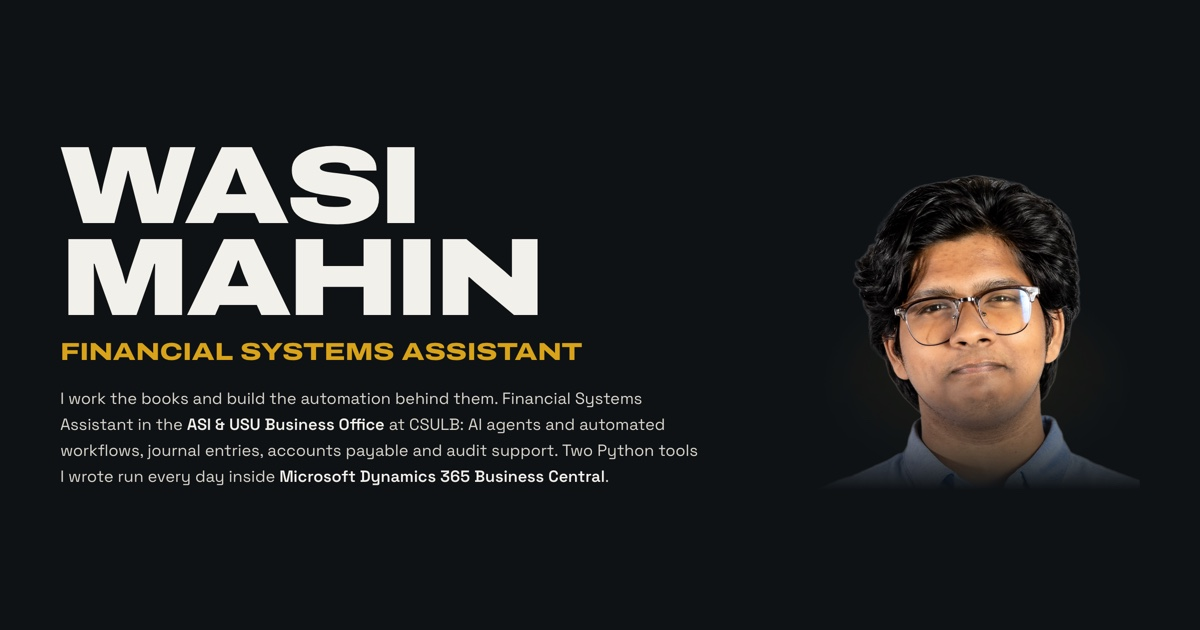
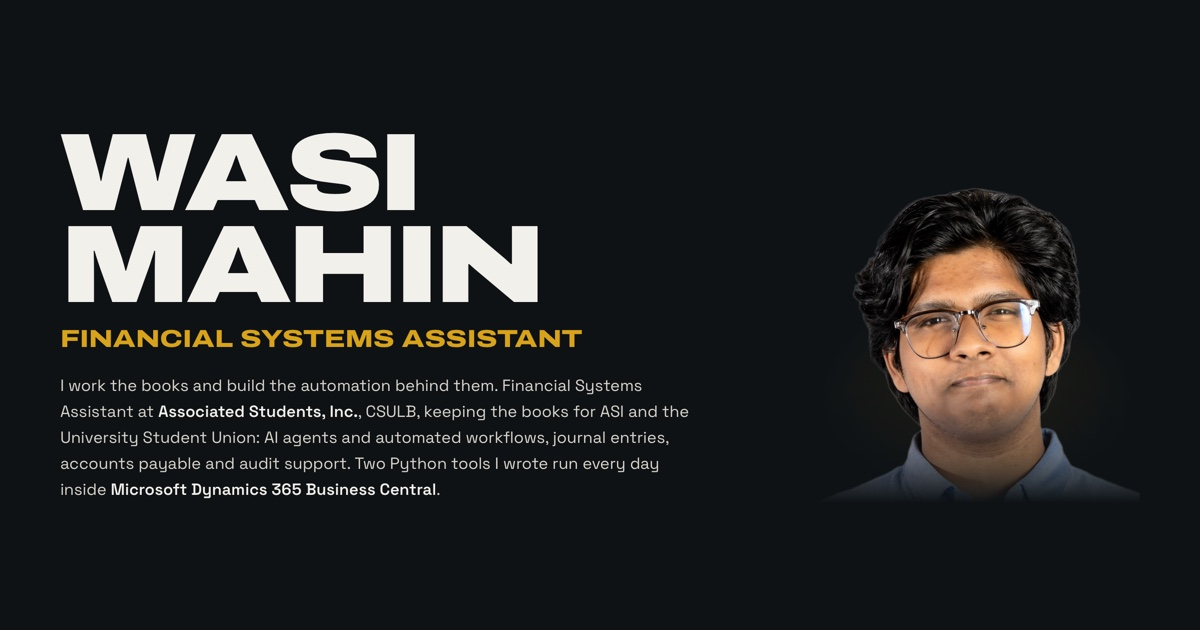
XYZ bullets, ASI as employer, GPA removed, skills regrouped
Experience bullets rewritten in Google's XYZ form; the tools and Copilot
pipelines move to the current role. Employer is Associated Students, Inc.
(Wasi keeps the books for ASI and USU). GPA evidence row and education GPA
removed. Skills regrouped for the Financial Systems Assistant role. Hero lede,
meta, Twitter and JSON-LD descriptions follow; OG image re-rendered and its URL
re-versioned; resume PDF rebuilt.

Changed region(s): [[0.0308, 0.2111, 0.4933, 0.573], [0.0308, 0.6032, 0.5858, 0.7841], [0.7092, 0.2714, 0.925, 0.7841]]

diff --git a/index.html b/index.html
@@ -4,7 +4,7 @@
 <meta charset="UTF-8"/>
 <meta name="viewport" content="width=device-width, initial-scale=1.0"/>
 <title>Wasi Mahin — Financial Systems Assistant | Finance operations &amp; production automation</title>
-<meta name="description" content="Financial Systems Assistant in the ASI &amp; USU Business Office at CSULB. Builds the office&#39;s AI agents and automated workflows, and wrote the two Python tools running daily inside Dynamics 365. MIS &amp; Accountancy, GPA 3.78."/>
+<meta name="description" content="Financial Systems Assistant at Associated Students, Inc., CSULB. Keeps the books for ASI and the University Student Union, builds the office&#39;s AI agents and automated workflows, and wrote the two Python tools running daily inside Dynamics 365."/>
 <meta name="author" content="Wasi Mahin"/>
 <meta name="robots" content="index, follow, max-image-preview:large, max-snippet:-1"/>
 <link rel="canonical" href="https://wasimahin.com/"/>
@@ -17,14 +17,14 @@
 <meta property="og:site_name" content="Wasi Mahin"/>
 <meta property="og:locale" content="en_US"/>
 <meta property="og:url" content="https://wasimahin.com/"/>
-<meta property="og:image" content="https://wasimahin.com/og-image.jpg?v=20261001"/>
+<meta property="og:image" content="https://wasimahin.com/og-image.jpg?v=20261001b"/>
 <meta property="og:image:width" content="1200"/>
 <meta property="og:image:height" content="630"/>
 <meta property="og:image:alt" content="Wasi Mahin — Financial Systems Assistant, portfolio preview"/>
 <meta name="twitter:card" content="summary_large_image"/>
 <meta name="twitter:title" content="Wasi Mahin — Financial Systems Assistant"/>
-<meta name="twitter:description" content="Financial Systems Assistant, ASI &amp; USU Business Office at CSULB. Builds AI agents and automated accounting workflows; wrote the two Python tools running daily inside Dynamics 365."/>
-<meta name="twitter:image" content="https://wasimahin.com/og-image.jpg?v=20261001"/>
+<meta name="twitter:description" content="Financial Systems Assistant at Associated Students, Inc., CSULB. Builds AI agents and automated accounting workflows; wrote the two Python tools running daily inside Dynamics 365."/>
+<meta name="twitter:image" content="https://wasimahin.com/og-image.jpg?v=20261001b"/>
 <meta name="twitter:image:alt" content="Wasi Mahin — Financial Systems Assistant, portfolio preview"/>
 
 <!-- Favicons -->
@@ -47,9 +47,9 @@
       "name": "Wasi Mahin",
       "url": "https://wasimahin.com/",
       "email": "mailto:wasimahin@gmail.com",
-      "image": "https://wasimahin.com/og-image.jpg?v=20261001",
+      "image": "https://wasimahin.com/og-image.jpg?v=20261001b",
       "jobTitle": "Financial Systems Assistant",
-      "description": "Financial Systems Assistant in the Associated Students, Inc. & University Student Union Business Office at CSULB: builds and maintains the office's AI agents and automated accounting workflows, and supports journal entries, accounts payable, reconciliations and audits. Engineered the two Python automation tools running daily inside Microsoft Dynamics 365 Business Central. MIS & Accountancy student at CSULB, GPA 3.78.",
+      "description": "Financial Systems Assistant at Associated Students, Inc., CSULB: keeps the books for ASI and the University Student Union, builds and maintains the office's AI agents and automated accounting workflows, and supports journal entries, accounts payable, reconciliations and audits. Engineered the two Python automation tools running daily inside Microsoft Dynamics 365 Business Central. MIS & Accountancy student at CSULB.",
       "alumniOf": { "@type": "CollegeOrUniversity", "name": "California State University, Long Beach", "sameAs": "https://www.csulb.edu" },
       "worksFor": { "@type": "Organization", "name": "Associated Students, Inc., CSULB" },
       "address": { "@type": "PostalAddress", "addressLocality": "Long Beach", "addressRegion": "CA", "addressCountry": "US" },
@@ -411,9 +411,10 @@ a:hover{text-decoration-color:var(--amber);}
       <h1><span class="flap">Wasi Mahin</span>
         <span class="svc flap">Financial Systems Assistant</span></h1>
       <p class="dest-lede">I work the books and build the automation behind them. Financial
-        Systems Assistant in the <b>ASI &amp; USU Business Office</b> at CSULB: AI agents and
-        automated workflows, journal entries, accounts payable and audit support. Two Python tools
-        I wrote run every day inside <b>Microsoft Dynamics 365 Business Central</b>.</p>
+        Systems Assistant at <b>Associated Students, Inc.</b>, CSULB, keeping the books for ASI and
+        the University Student Union: AI agents and automated workflows, journal entries, accounts
+        payable and audit support. Two Python tools I wrote run every day inside <b>Microsoft
+        Dynamics 365 Business Central</b>.</p>
     </div>
     <div class="gate" role="img" aria-label="Portrait of Wasi Mahin"></div>
   </div>
@@ -433,9 +434,6 @@ a:hover{text-decoration-color:var(--amber);}
     <div class="ev-row"><div class="ev-n">70–80%</div>
       <p class="ev-t">faster extraction, validation and reporting pipelines, built with
         <b>Microsoft Copilot</b> and prompt engineering.</p></div>
-    <div class="ev-row"><div class="ev-n">3.78</div>
-      <p class="ev-t">GPA at CSULB in <b>MIS &amp; Accountancy</b>. President's List in five
-        semesters since Fall 2023.</p></div>
   </div>
 </section>
 
@@ -449,14 +447,16 @@ a:hover{text-decoration-color:var(--amber);}
     <div class="row cols-4">
       <div class="t-time">Sep 2026 —</div>
       <div class="t-main">Financial Systems Assistant
-        <span class="t-sub">Associated Students, Inc. &amp; University Student Union · CSULB</span></div>
+        <span class="t-sub">Associated Students, Inc. · CSULB</span></div>
       <div class="t-detail"><ul>
-        <li>Build and maintain the Business Office's <b>AI agents and automated workflows</b>,
-          including the two Python tools below.</li>
-        <li>Review AI tools for risk: <b>access controls, data protection</b> and internal-control
-          safeguards for financial data.</li>
-        <li>Prepare <b>journal entries</b> and support accounts payable, reconciliations, audits,
-          year-end close and budget development.</li>
+        <li>Cut invoice entry <b>~96%</b> and manual journal entry <b>up to 95%</b> by building and
+          maintaining the two Python tools below.</li>
+        <li>Cut reporting-pipeline time <b>70–80%</b> with AI-assisted extraction and validation
+          workflows built on Microsoft Copilot.</li>
+        <li>Protect confidential financial data by reviewing AI tools for risk and putting
+          <b>access controls and internal-control safeguards</b> in place.</li>
+        <li>Keep the ASI and USU books <b>audit-ready</b>: journal entries, accounts payable,
+          reconciliations and year-end close.</li>
       </ul></div>
       <div><span class="flag live">Current</span></div>
     </div>
@@ -464,15 +464,14 @@ a:hover{text-decoration-color:var(--amber);}
     <div class="row cols-4">
       <div class="t-time">Feb – Sep 2026</div>
       <div class="t-main">Lead Business Office Representative
-        <span class="t-sub">Associated Students, Inc. &amp; University Student Union · CSULB</span></div>
+        <span class="t-sub">Associated Students, Inc. · CSULB</span></div>
       <div class="t-detail"><ul>
-        <li>Built the <b>two production Python tools</b> described below: invoice entry ~96% faster,
-          manual journal entry cut up to 95%.</li>
-        <li>Owned the <b>full accounts payable cycle</b> for ASI and USU — 50–100+ vendor invoices a
-          week, up to 200 at peak — and ran <b>monthly internal audits</b> at 100% accuracy across
-          500+ accounts.</li>
-        <li>Supported the <b>2025–26 external year-end audit</b> with reconciliations and supporting
-          schedules, and ran <b>SQL-driven budget analysis</b> for annual budgets.</li>
+        <li>Processed <b>50–100+ vendor invoices a week</b> for 500+ organisations by owning the full
+          accounts payable cycle for ASI and USU.</li>
+        <li>Kept <b>100% data accuracy</b> across 500+ accounts through monthly internal audits and
+          2025–26 year-end audit preparation.</li>
+        <li>Raised office efficiency <b>50%</b> by redesigning workflows and training three new
+          hires.</li>
       </ul></div>
       <div><span class="flag done">Completed</span></div>
     </div>
@@ -482,10 +481,10 @@ a:hover{text-decoration-color:var(--amber);}
       <div class="t-main">Vice President of Finance
         <span class="t-sub">Association for Information Systems · CSULB</span></div>
       <div class="t-detail"><ul>
-        <li>Own the full financial lifecycle of a <b>100+ member organisation</b>: a $5,000+
-          operating budget plus external grant funding.</li>
-        <li>Analyse financial data to optimise fund distribution, and improve tracking,
-          reporting and allocation.</li>
+        <li>Fund weekly workshops and events for a <b>100+ member organisation</b> by managing a
+          $5,000+ operating budget plus external grant funding.</li>
+        <li>Improve allocation and reporting transparency by analysing spending data against the
+          board's growth goals.</li>
       </ul></div>
       <div><span class="flag live">Current</span></div>
     </div>
@@ -495,10 +494,10 @@ a:hover{text-decoration-color:var(--amber);}
       <div class="t-main">Business Analyst Intern — Project Microsoft
         <span class="t-sub">Association for Information Systems · CSULB</span></div>
       <div class="t-detail"><ul>
-        <li>Built interactive <b>Power BI dashboards</b> with DAX and custom data models,
-          turning raw performance data into executive-ready KPI visualisations.</li>
-        <li>Built <b>ETL pipelines</b> in Microsoft Fabric; ran SWOT and cost-benefit analyses
-          and co-delivered pitches to Microsoft representatives.</li>
+        <li>Turned raw performance data into executive-ready KPI dashboards by building
+          <b>Power BI</b> models and <b>Microsoft Fabric</b> ETL pipelines.</li>
+        <li>Shaped project strategy with correlation, SWOT and cost-benefit analyses, and
+          co-delivered the pitch to Microsoft representatives.</li>
       </ul></div>
       <div><span class="flag done">Completed</span></div>
     </div>
@@ -508,9 +507,9 @@ a:hover{text-decoration-color:var(--amber);}
       <div class="t-main">Business Office Representative
         <span class="t-sub">Associated Students, Inc. · CSULB</span></div>
       <div class="t-detail"><ul>
-        <li>Cut check processing time <b>80%</b> via an upgraded financial system.</li>
-        <li>Co-developed the 2025–26 ASI/USU operating budgets and reconciled statements for
-          20+ organisations.</li>
+        <li>Cut check-processing time <b>80%</b> by implementing an upgraded financial system.</li>
+        <li>Reconciled statements for <b>20+ organisations</b> and co-developed the 2025–26 ASI and
+          USU operating budgets.</li>
       </ul></div>
       <div><span class="flag done">Completed</span></div>
     </div>
@@ -582,7 +581,7 @@ a:hover{text-decoration-color:var(--amber);}
     <div class="row cols-3">
       <div class="t-time">Expected May 2027</div>
       <div class="t-main">B.S. Management Information Systems &amp; Accountancy
-        <span class="t-sub">California State University, Long Beach · GPA 3.78 / 4.00 ·
+        <span class="t-sub">California State University, Long Beach ·
           President's List, five semesters ·
           3rd place, AIS Annual Datathon 2026</span></div>
       <div><span class="flag live">In progress</span></div>
@@ -593,16 +592,15 @@ a:hover{text-decoration-color:var(--amber);}
 <section class="wrap sec" id="skills">
   <h2>Skills</h2>
   <div class="sk">
-    <div><h3>Finance &amp; Accounting</h3><p>Financial Analysis · Budgeting · Forecasting ·
-      Accounts Payable · Purchase Orders · Account &amp; Bank Reconciliation · Journal Entries ·
-      General Ledger · Internal Audit · Audit Preparation · Internal Controls ·
-      Financial Reporting · Variance Analysis · SOP &amp; Process Documentation</p></div>
-    <div><h3>Languages &amp; Querying</h3><p>Python · SQL · DAX ·
-      Excel (Power Query, Pivot Tables, VLOOKUP) · pdfplumber · openpyxl</p></div>
-    <div><h3>BI &amp; Visualisation</h3><p>Power BI · Tableau · Data Modeling ·
-      KPI Dashboards · Data Storytelling</p></div>
-    <div><h3>Data Engineering &amp; AI</h3><p>ETL Pipelines · Microsoft Fabric ·
-      Microsoft Copilot · Prompt Engineering · Workflow Automation · Data Validation</p></div>
+    <div><h3>Finance &amp; Accounting</h3><p>Accounts Payable · Journal Entries · General Ledger ·
+      Account &amp; Bank Reconciliation · Internal Audit · Audit Preparation · Internal Controls ·
+      Financial Reporting · Budgeting &amp; Forecasting · Variance Analysis · Year-End Close</p></div>
+    <div><h3>Automation &amp; AI</h3><p>Python (pdfplumber, openpyxl, pyautogui) · AI Agents ·
+      Workflow Automation · Microsoft Copilot · Prompt Engineering ·
+      Access Controls &amp; Data Protection</p></div>
+    <div><h3>Data &amp; BI</h3><p>SQL · Power BI · DAX · Tableau ·
+      Excel (Power Query, Pivot Tables, VLOOKUP) · Microsoft Fabric · ETL Pipelines ·
+      Data Validation</p></div>
     <div><h3>Platforms</h3><p>Microsoft Dynamics 365 Business Central · Microsoft 365 · GitHub</p></div>
   </div>
 </section>
